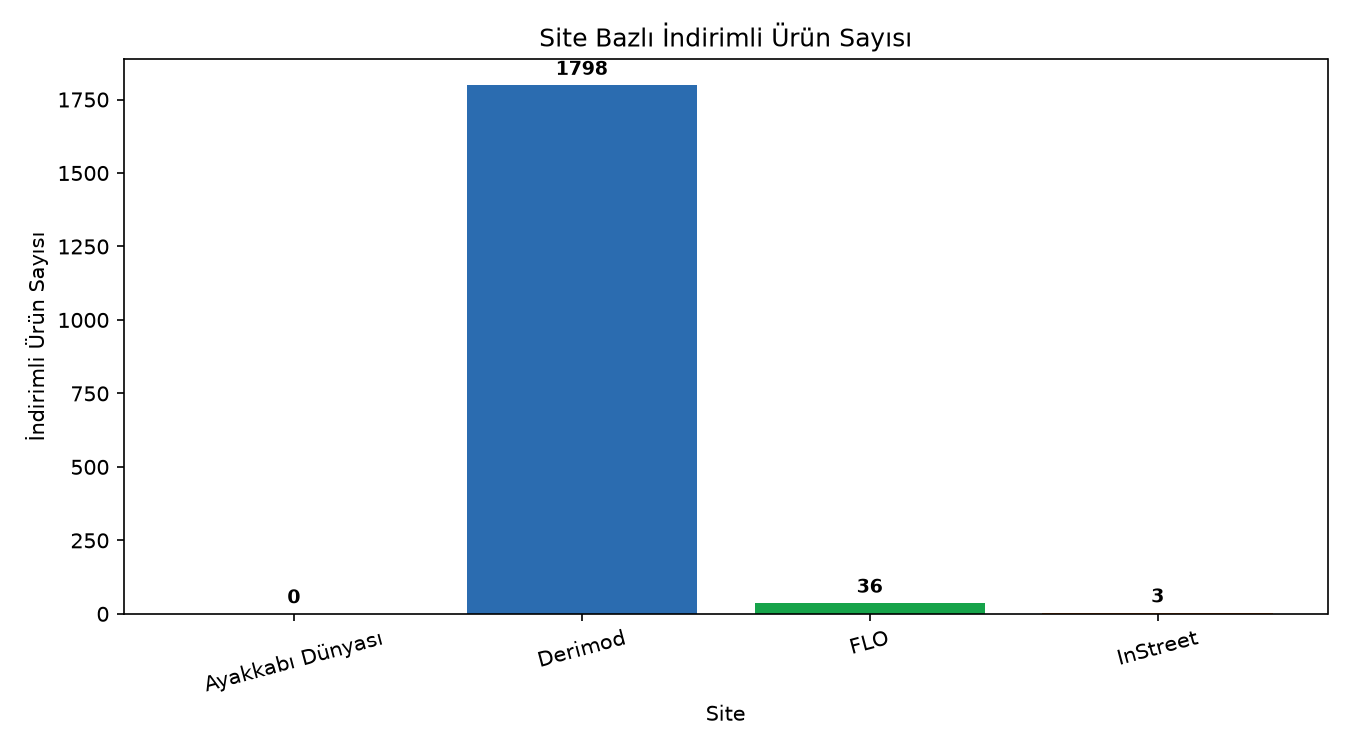
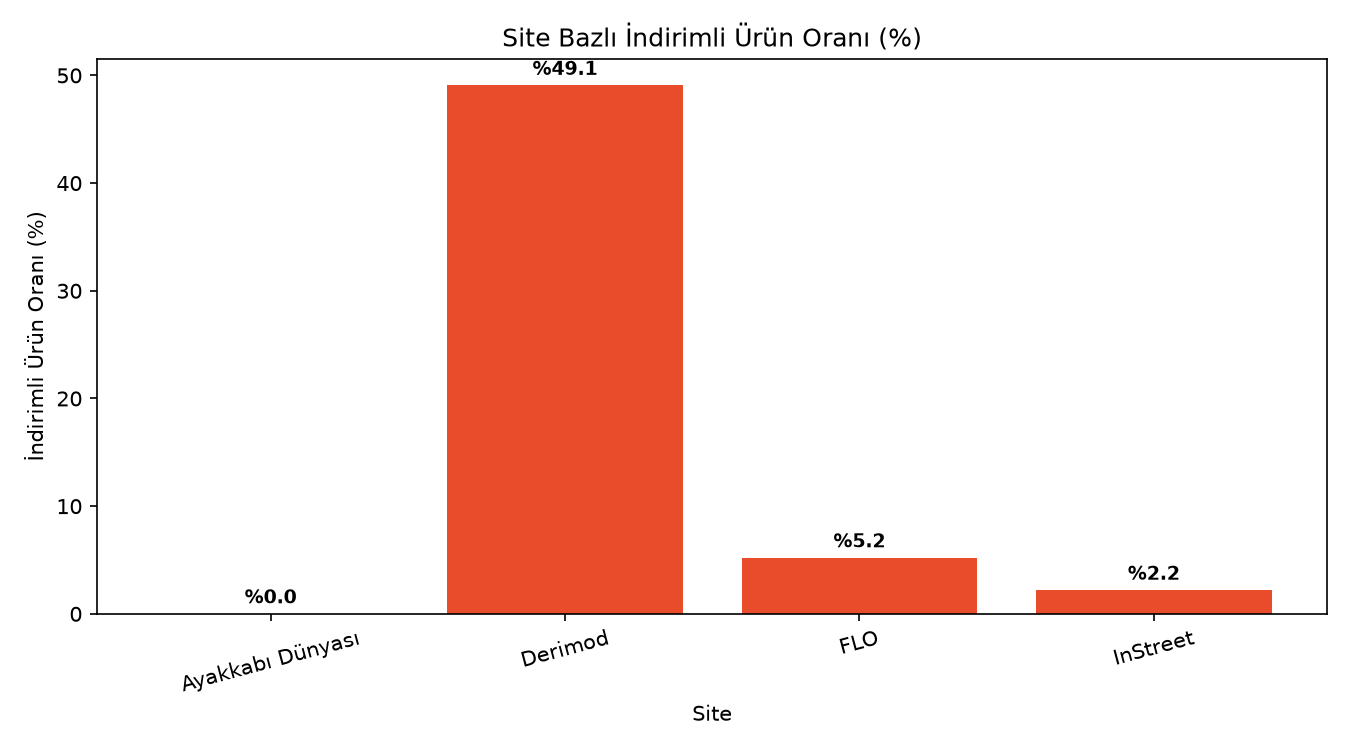
İndirimli ürün sayısı yerine ürün oranı kullanılıyor.

diff --git a/src/analiz_dashboard.html b/src/analiz_dashboard.html
@@ -312,6 +312,7 @@
       <th>En_Pahali</th>
       <th>Ortalama_Indirim</th>
       <th>Indirimli_Urun_Sayisi</th>
+      <th>Indirimli_Urun_Orani</th>
     </tr>
   </thead>
   <tbody>
@@ -323,6 +324,7 @@
       <td>9999.99</td>
       <td>0.00</td>
       <td>0</td>
+      <td>0.00</td>
     </tr>
     <tr>
       <td>Derimod</td>
@@ -332,6 +334,7 @@
       <td>7999.99</td>
       <td>16.42</td>
       <td>1798</td>
+      <td>49.07</td>
     </tr>
     <tr>
       <td>FLO</td>
@@ -341,6 +344,7 @@
       <td>6299.00</td>
       <td>1.18</td>
       <td>36</td>
+      <td>5.20</td>
     </tr>
     <tr>
       <td>InStreet</td>
@@ -350,6 +354,7 @@
       <td>4999.00</td>
       <td>0.58</td>
       <td>3</td>
+      <td>2.19</td>
     </tr>
   </tbody>
 </table>

diff --git a/src/dashboard.py b/src/dashboard.py
@@ -38,15 +38,15 @@ plt.tight_layout()
 plt.savefig(VISUALS_DIR / "site_karsilastirma.png", dpi=150)
 plt.close()
 
-# Grafik 2: İndirimli ürün sayısı
+# Grafik 2: İndirimli ürün oranı
 plt.figure(figsize=(9, 5))
-plt.bar(site["site"], site["Indirimli_Urun_Sayisi"], color=renkler[:len(site)])
-plt.title("Site Bazlı İndirimli Ürün Sayısı")
+plt.bar(site["site"], site["Indirimli_Urun_Orani"], color=renkler[:len(site)])
+plt.title("Site Bazlı İndirimli Ürün Oranı (%)")
 plt.xlabel("Site")
-plt.ylabel("İndirimli Ürün Sayısı")
+plt.ylabel("İndirimli Ürün Oranı (%)")
 plt.xticks(rotation=15)
-for i, v in enumerate(site["Indirimli_Urun_Sayisi"]):
-    plt.text(i, v + max(site["Indirimli_Urun_Sayisi"])*0.02, str(int(v)), ha="center", fontsize=9, fontweight="bold")
+for i, v in enumerate(site["Indirimli_Urun_Orani"]):
+    plt.text(i, v + max(site["Indirimli_Urun_Orani"])*0.02, f"%{v:.1f}", ha="center", fontsize=9, fontweight="bold")
 plt.tight_layout()
 plt.savefig(VISUALS_DIR / "indirimli_urun_sayisi.png", dpi=150)
 plt.close()

diff --git a/src/genel_analiz.py b/src/genel_analiz.py
@@ -105,7 +105,8 @@ site_ozet = df.groupby("site").agg(
     En_Ucuz=("analiz_fiyati", "min"),
     En_Pahali=("analiz_fiyati", "max"),
     Ortalama_Indirim=("indirim_orani", "mean"),
-    Indirimli_Urun_Sayisi=("indirim_orani", lambda x: (x > 0).sum())
+    Indirimli_Urun_Sayisi=("indirim_orani", lambda x: (x > 0).sum()),
+    Indirimli_Urun_Orani=("indirim_orani", lambda x: ((x > 0).sum() / len(x)) * 100)
 ).round(2)
 print(site_ozet)
 